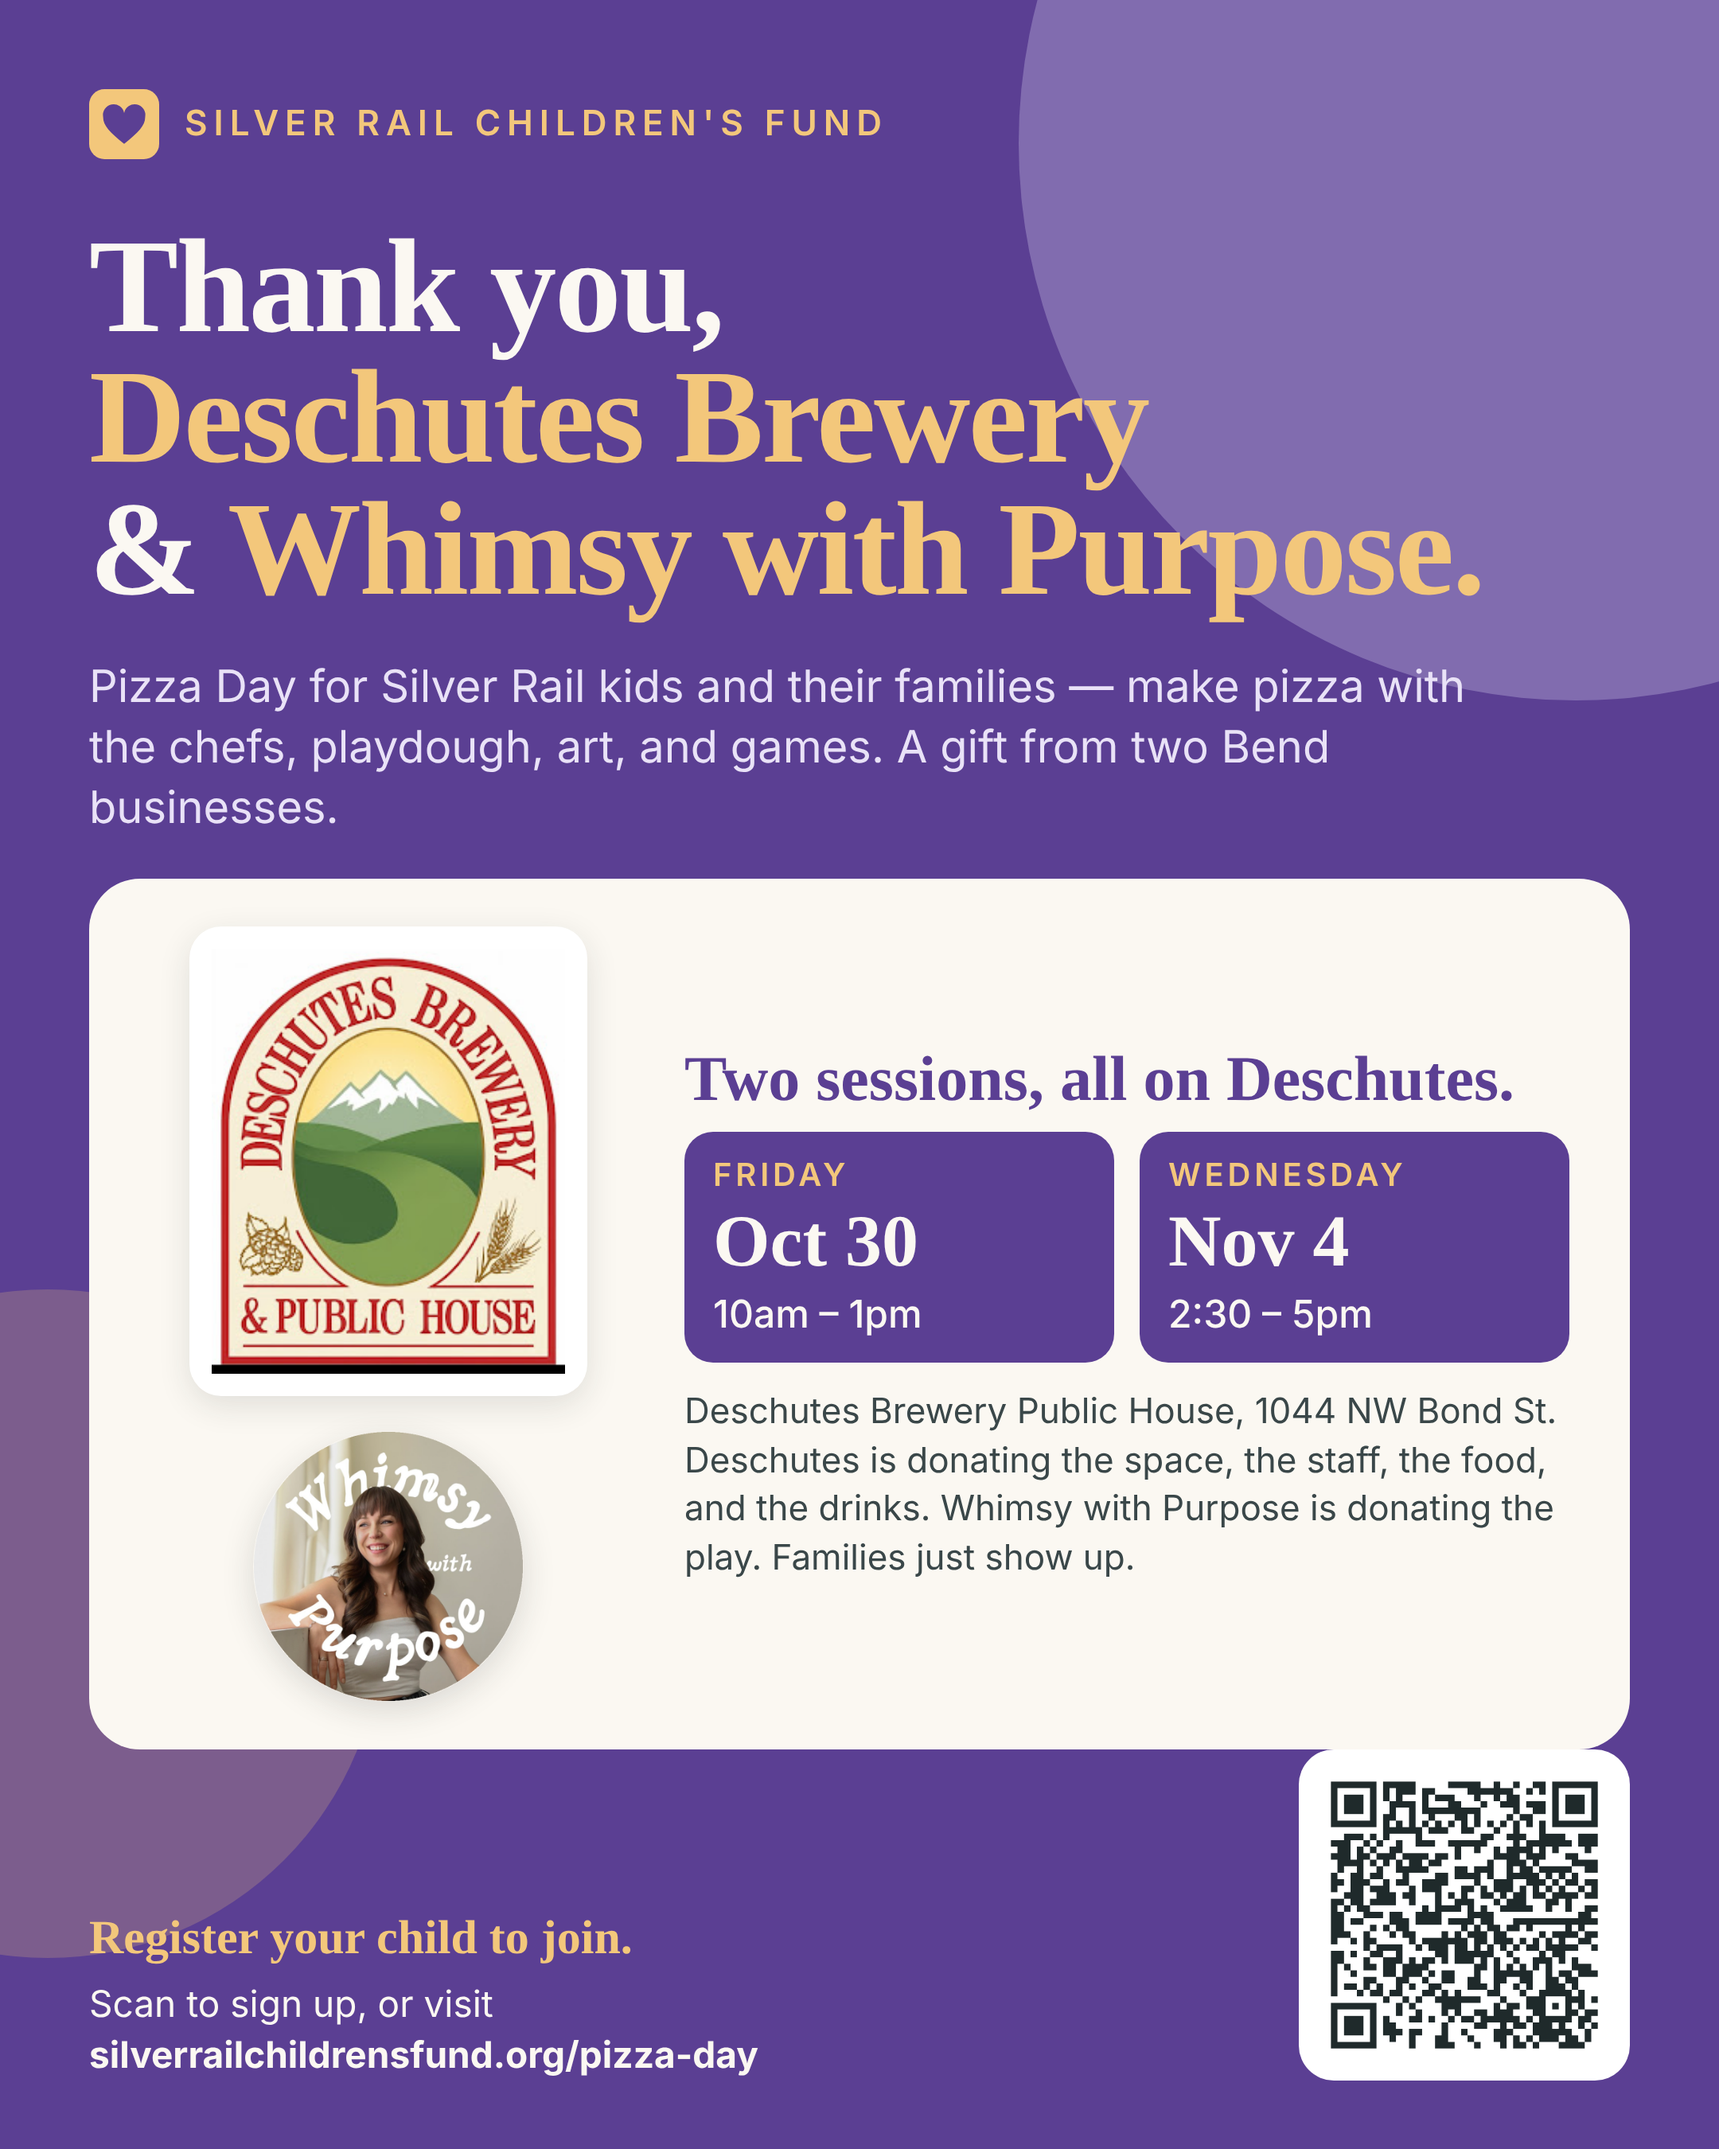
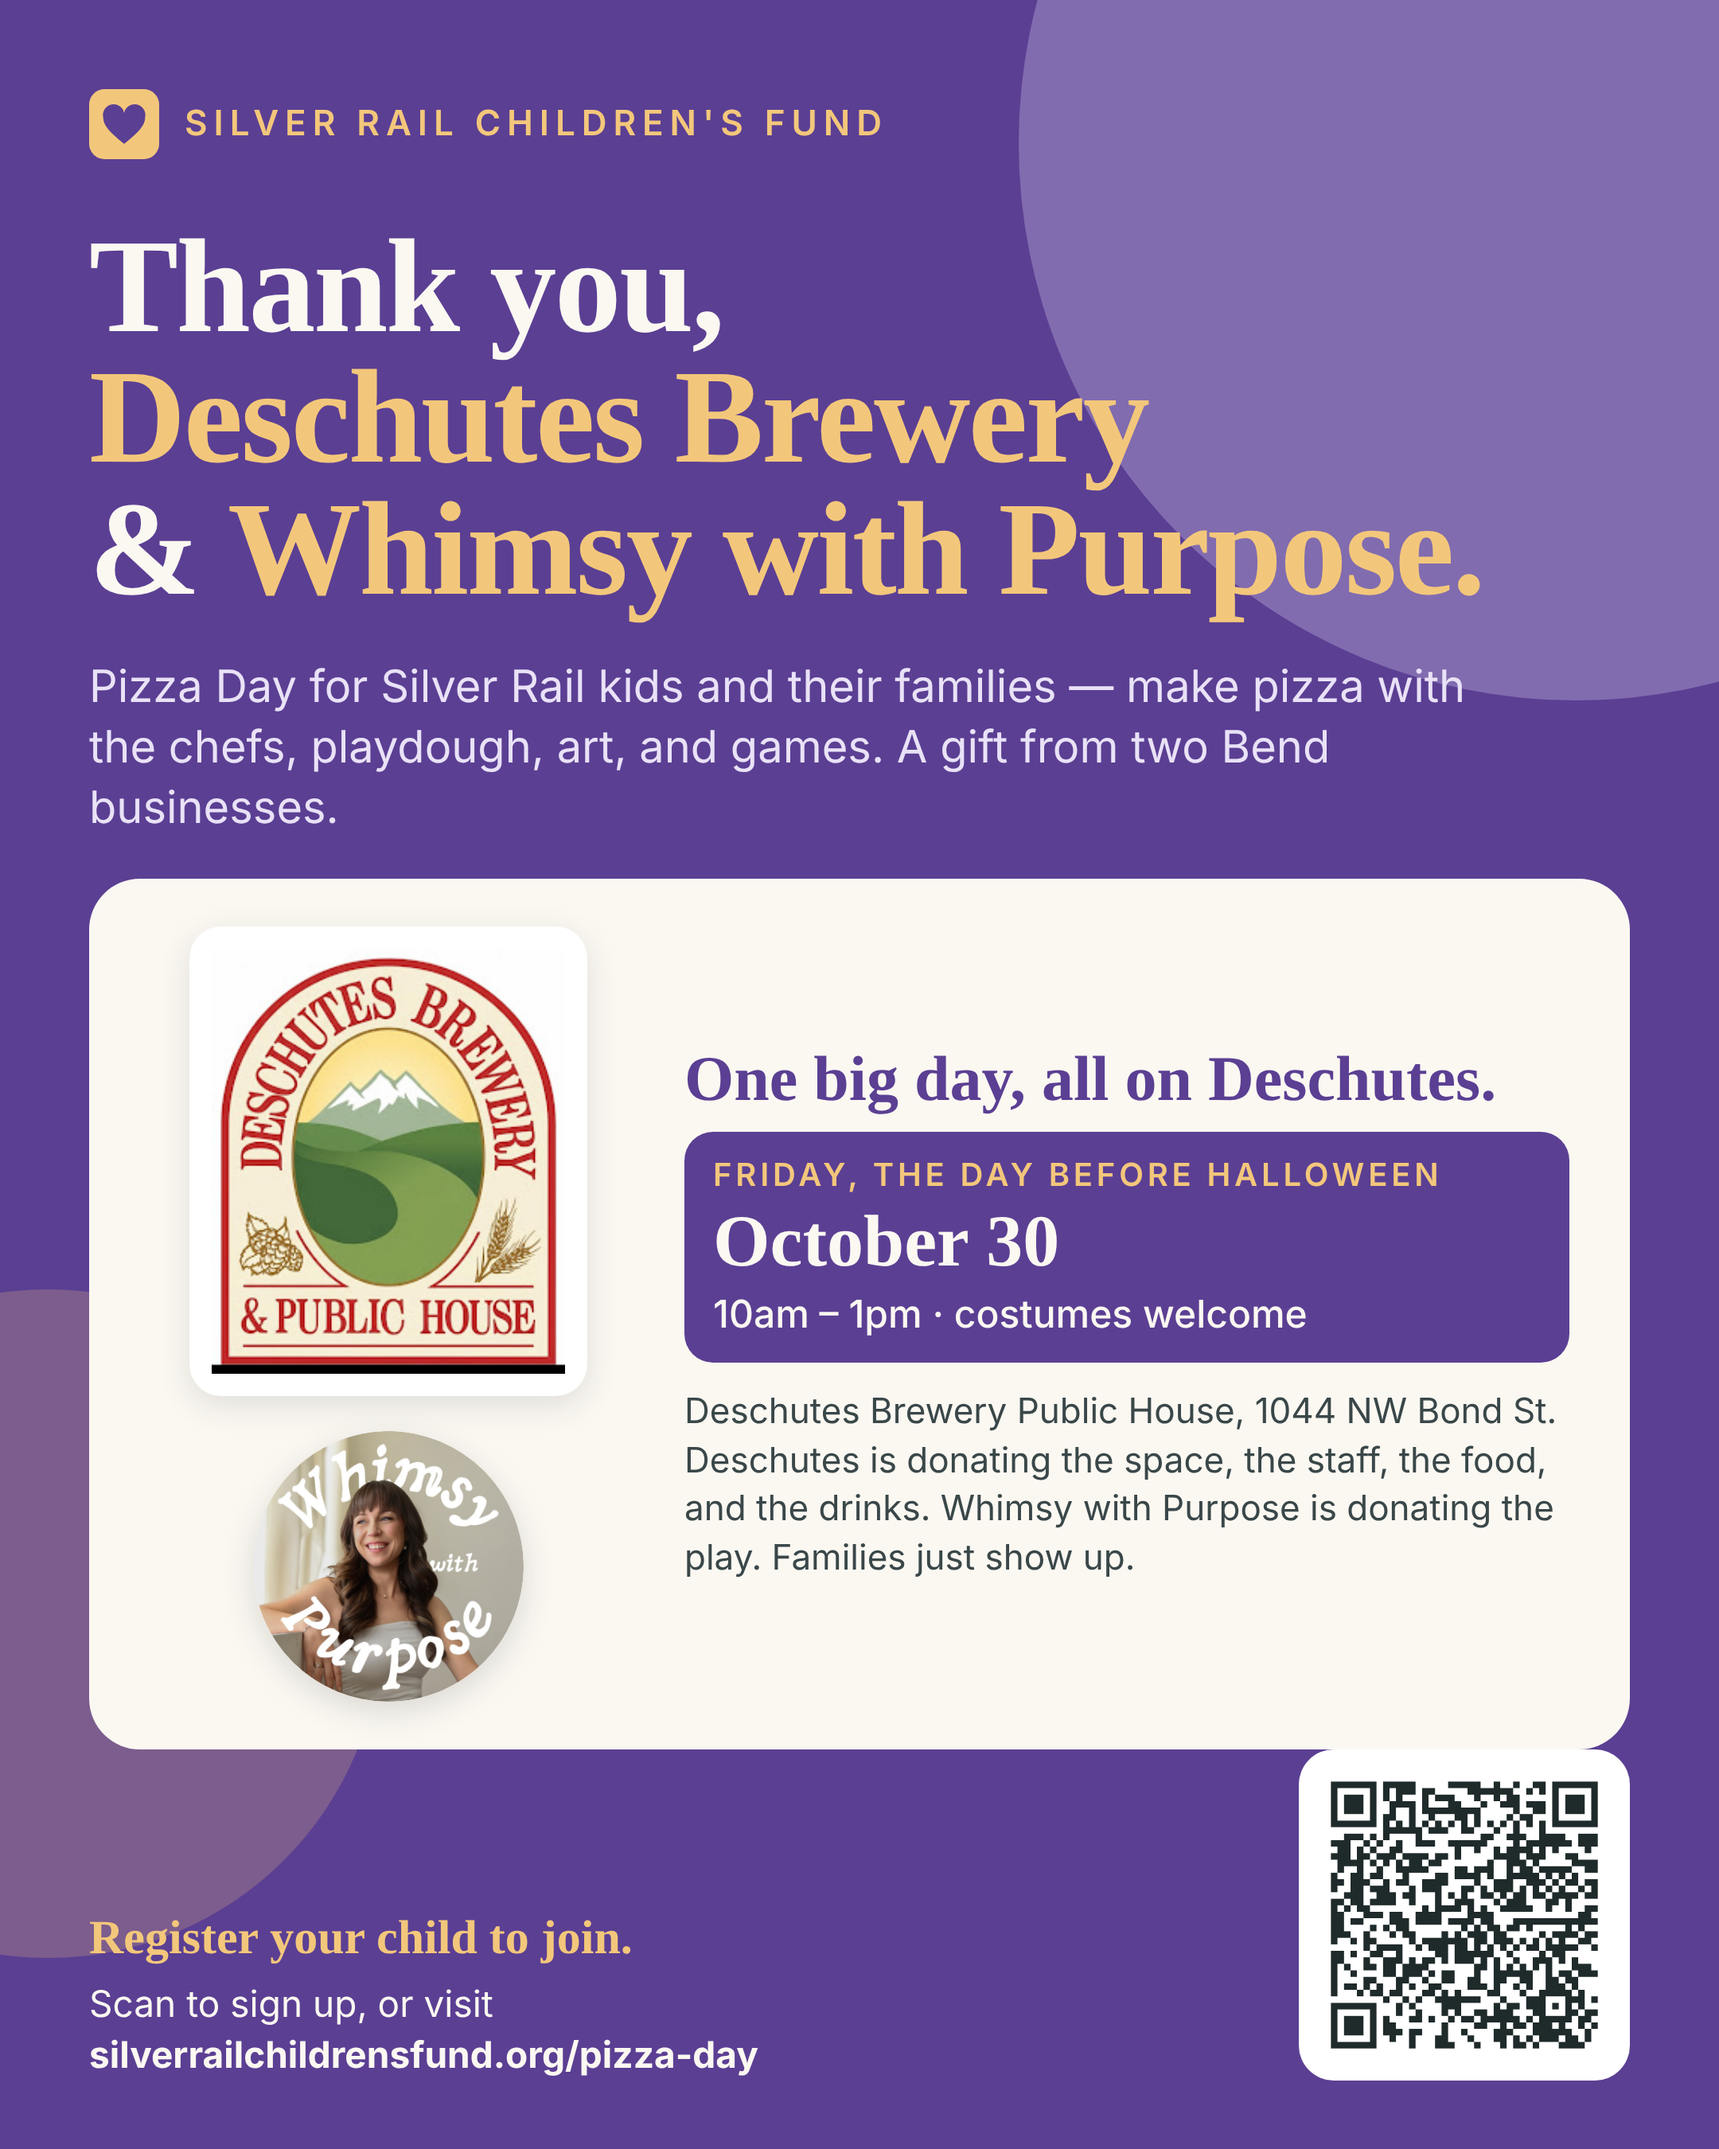
Pizza Day: Oct 30 only, Halloween touches
Claude-Session: https://claude.ai/code/session_019jt2LXU3CZrv6nyaaDTgQ8

Changed region(s): [[0.4032, 0.4978, 0.8685, 0.6533], [0.1551, 0.6533, 0.2792, 0.8089]]

diff --git a/pizza-day.html b/pizza-day.html
@@ -4,11 +4,11 @@
 <meta charset="utf-8">
 <meta name="viewport" content="width=device-width, initial-scale=1">
 <title>Pizza Day — Silver Rail Children's Fund</title>
-<meta name="description" content="Pizza Day for Silver Rail kids at Deschutes Brewery, downtown Bend. Two sessions, donated by Deschutes Brewery and Whimsy with Purpose. Register your family.">
+<meta name="description" content="Pizza Day for Silver Rail kids at Deschutes Brewery, downtown Bend, Friday Oct 30. Donated by Deschutes Brewery and Whimsy with Purpose. Register your family.">
 <meta name="theme-color" content="#5B3F93">
 <link rel="canonical" href="https://silverrailchildrensfund.org/pizza-day.html">
 <meta property="og:title" content="Pizza Day — Silver Rail Children's Fund">
-<meta property="og:description" content="Make a pizza with the chefs at Deschutes Brewery. Two sessions, donated by Deschutes. Register your Silver Rail family.">
+<meta property="og:description" content="Make a pizza with the chefs at Deschutes Brewery, Friday Oct 30. Donated by Deschutes. Register your Silver Rail family.">
 <meta property="og:type" content="website">
 <meta property="og:url" content="https://silverrailchildrensfund.org/pizza-day.html">
 <meta property="og:image" content="https://silverrailchildrensfund.org/share.jpg">
@@ -161,19 +161,18 @@ dl.faq dd{margin:4px 0 0;color:var(--ink-2)}
 
 <section id="when">
   <div class="wrap">
-    <h2>Two sessions. Pick one.</h2>
+    <h2>Friday, October 30 — the day before Halloween.</h2>
     <div class="sess">
-      <div class="card"><b>Friday, Oct 30</b><p>10:00 am – 1:00 pm<br>Deschutes Brewery Public House<br>1044 NW Bond St, Bend</p></div>
-      <div class="card"><b>Wednesday, Nov 4</b><p>2:30 – 5:00 pm (after school)<br>Deschutes Brewery Public House<br>1044 NW Bond St, Bend</p></div>
+      <div class="card"><b>10:00 am – 1:00 pm</b><p>Deschutes Brewery Public House<br>1044 NW Bond St, downtown Bend<br>Costumes welcome 🎃</p></div>
     </div>
-    <p class="note" style="max-width:720px;margin-top:18px">60 spots per session, kids and adults together. A parent or guardian stays with their child the whole time. Siblings are welcome. When a session fills, the form stays open as a waitlist and you'll get an email with your place in line.</p>
+    <p class="note" style="max-width:720px;margin-top:18px">60 spots, kids and adults together. A parent or guardian stays with their child the whole time. Siblings are welcome. When it fills, the form stays open as a waitlist and you'll get an email with your place in line.</p>
     <div class="kids" style="margin-top:22px">
       <strong>What happens</strong>
       <ul>
         <li>Each kid builds their own pizza at a prepped station, and the Deschutes kitchen bakes it.</li>
         <li>Parents eat and drink too. Deschutes is feeding the grown-ups as well as the kids.</li>
         <li>Playdough making, toys, and games led by Whimsy with Purpose while pizzas cook.</li>
-        <li>Art supplies on the tables. Quiet corner for anyone who needs a minute.</li>
+        <li>Costumes welcome, and a little Halloween on the tables — pumpkins to decorate, nothing scary. Quiet corner for anyone who needs a minute.</li>
         <li>No photos of children without a parent's say-so. No press inside.</li>
       </ul>
     </div>

diff --git a/index.html b/index.html
@@ -364,7 +364,7 @@ footer .taxid{max-width:1140px;margin:28px auto 0;padding:0 20px;font-size:1rem;
         <ul>
           <li>Oct 22 — Silver Rail Kids Fun Fund launched on GoFundMe</li>
           <li>Oct 23 — Silver Rail Children's Fund incorporated in Oregon; Tax ID issued</li>
-          <li>Oct 30 &amp; Nov 4 — <a href="pizza-day.html">Pizza Day at Deschutes Brewery</a>, donated in full by Deschutes Brewery and Whimsy with Purpose</li>
+          <li>Oct 30 — <a href="pizza-day.html">Pizza Day at Deschutes Brewery</a>, donated in full by Deschutes Brewery and Whimsy with Purpose</li>
           <li>Next — bylaws signed and posted; bank account; DOJ registration; pumpkin patch outing for Silver Rail kids before Halloween, sponsored by Midtown Yacht Club (details sent to registered families)</li>
         </ul>
         <small>Updated as things happen. The first monthly ledger posts after our first full month.</small>
